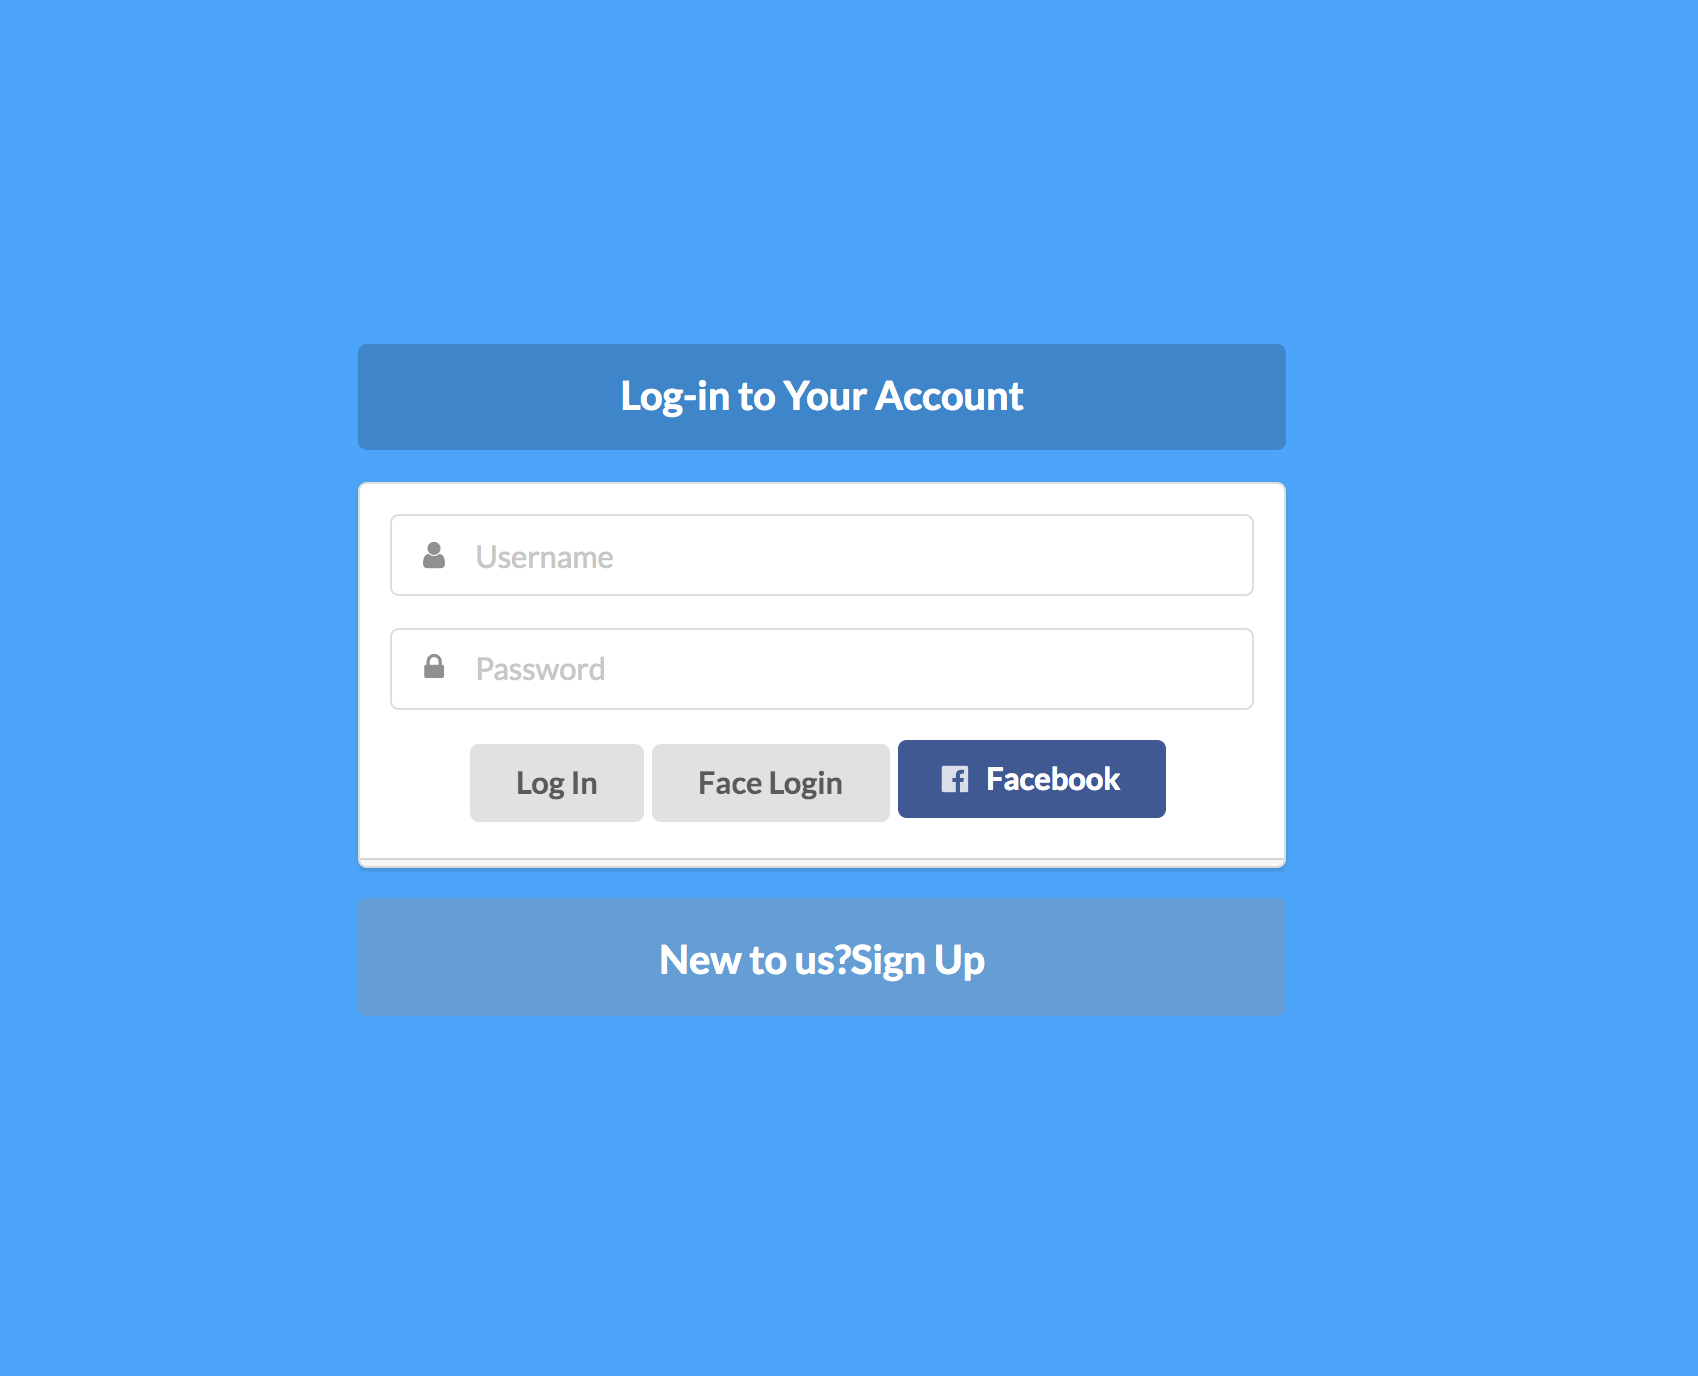
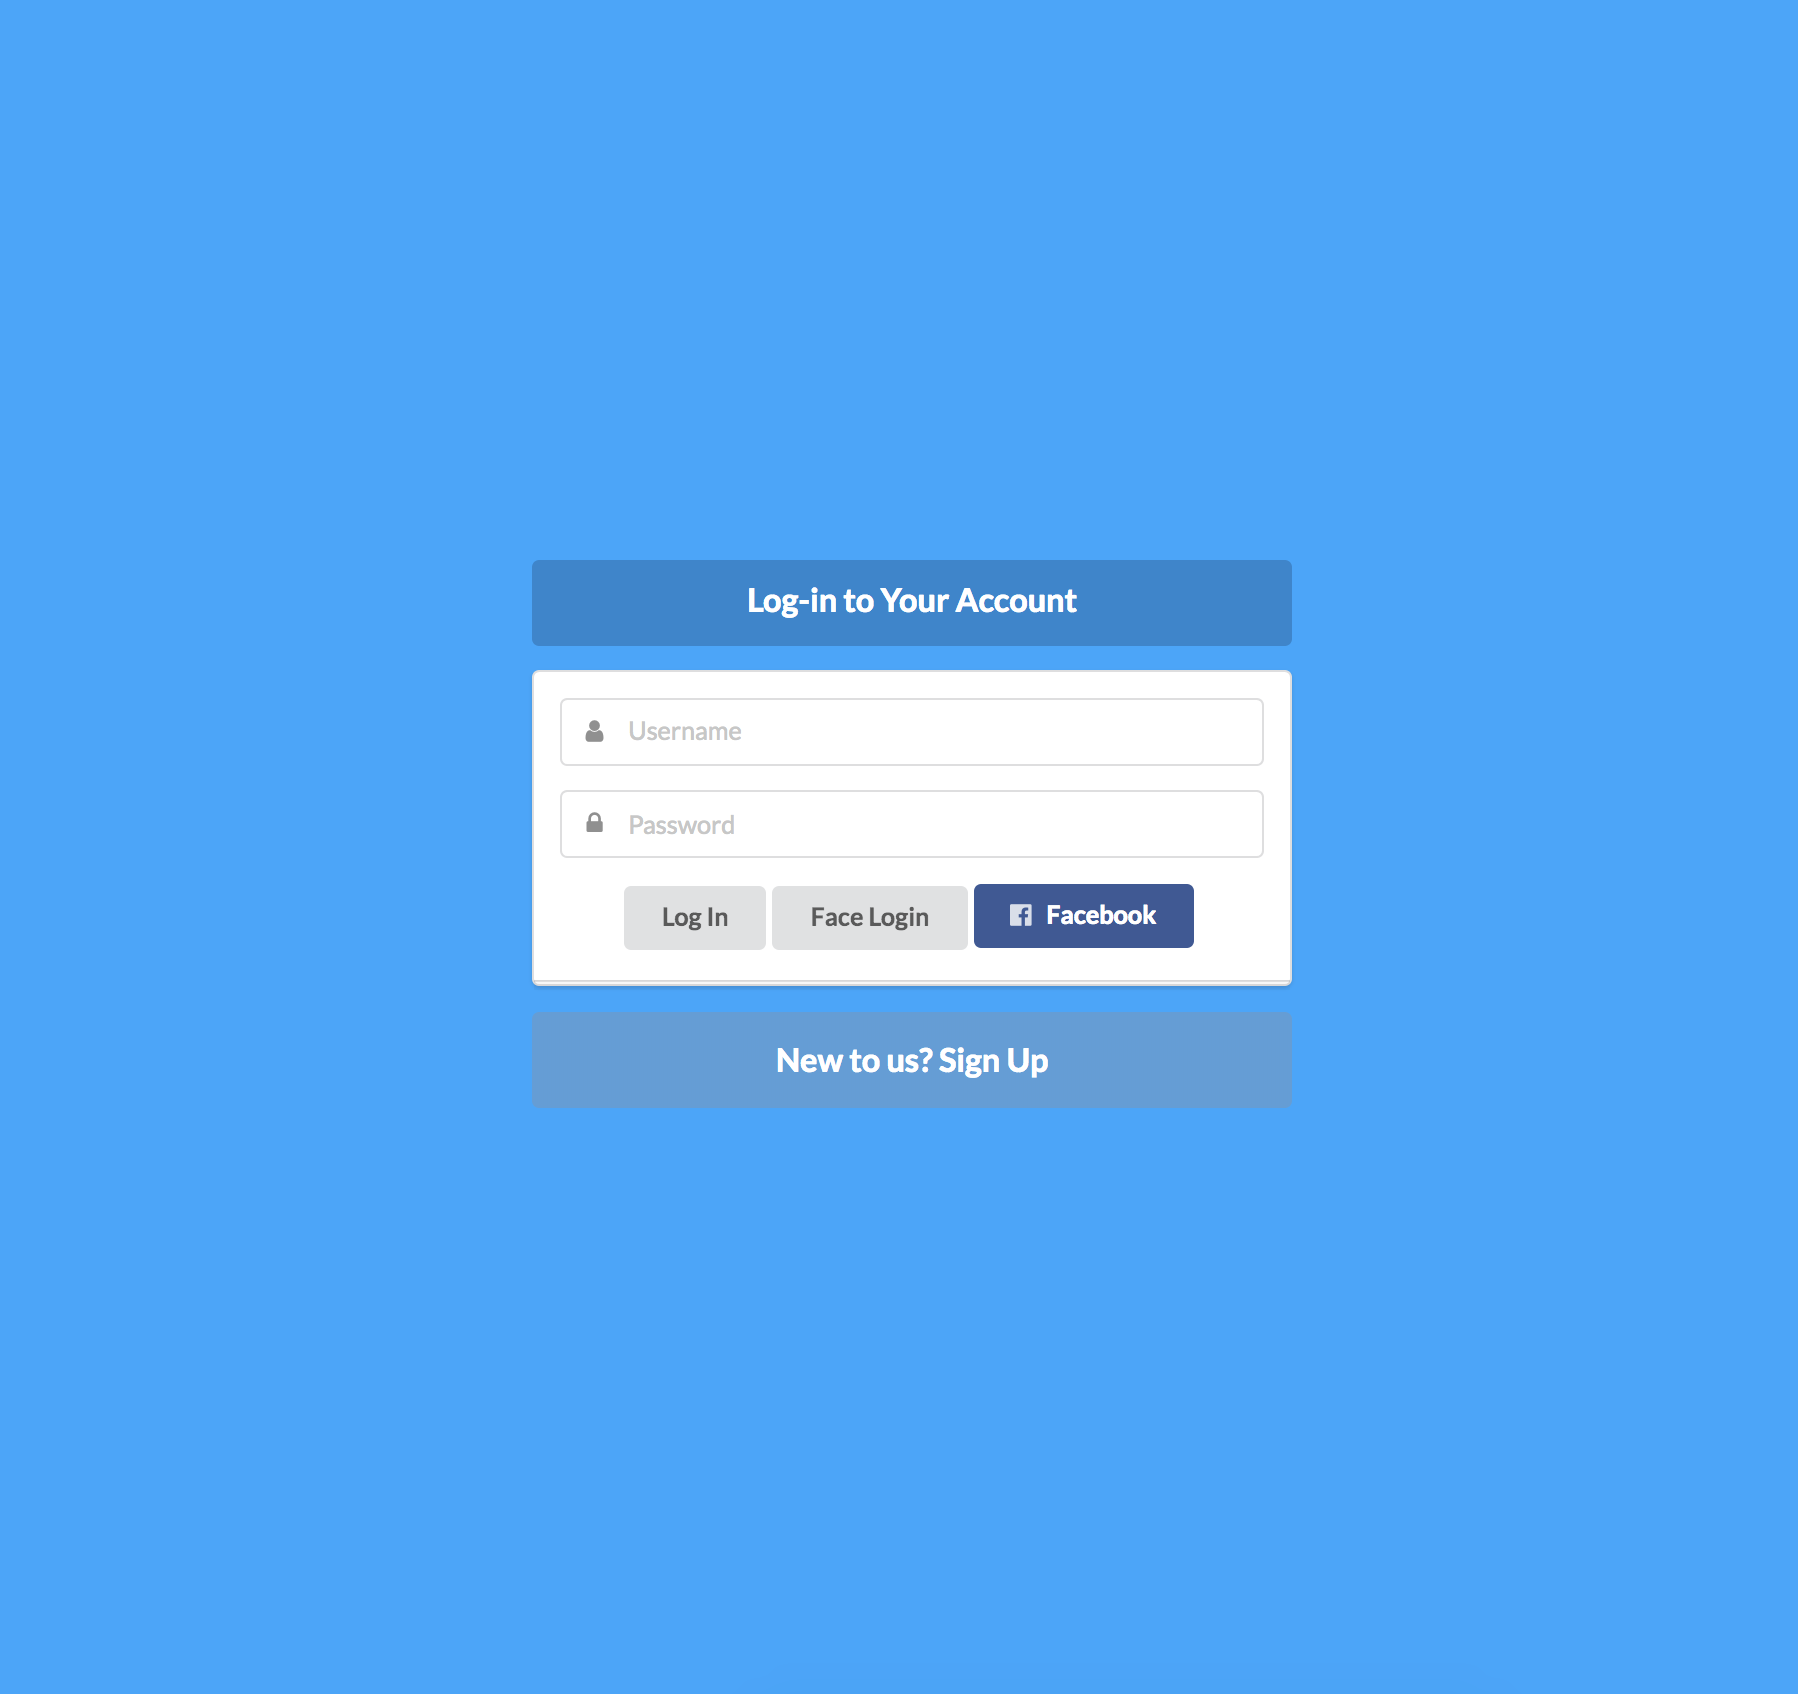
Updated pics

Changed region(s): [[0.1873, 0.25, 0.7803, 0.75]]

diff --git a/client/src/LoginPage/LoginPage.jsx b/client/src/LoginPage/LoginPage.jsx
@@ -149,8 +149,8 @@ class LoginPage extends React.Component {
             <Header as={Link} to='/register'>
               <p style={{
                   display: 'inline-block'
-                }}>New to us?</p>
-              Sign Up</Header>
+                }}>New to us? Sign Up </p>
+              </Header>
           </Segment>
         </Grid.Column>
       </Grid>
